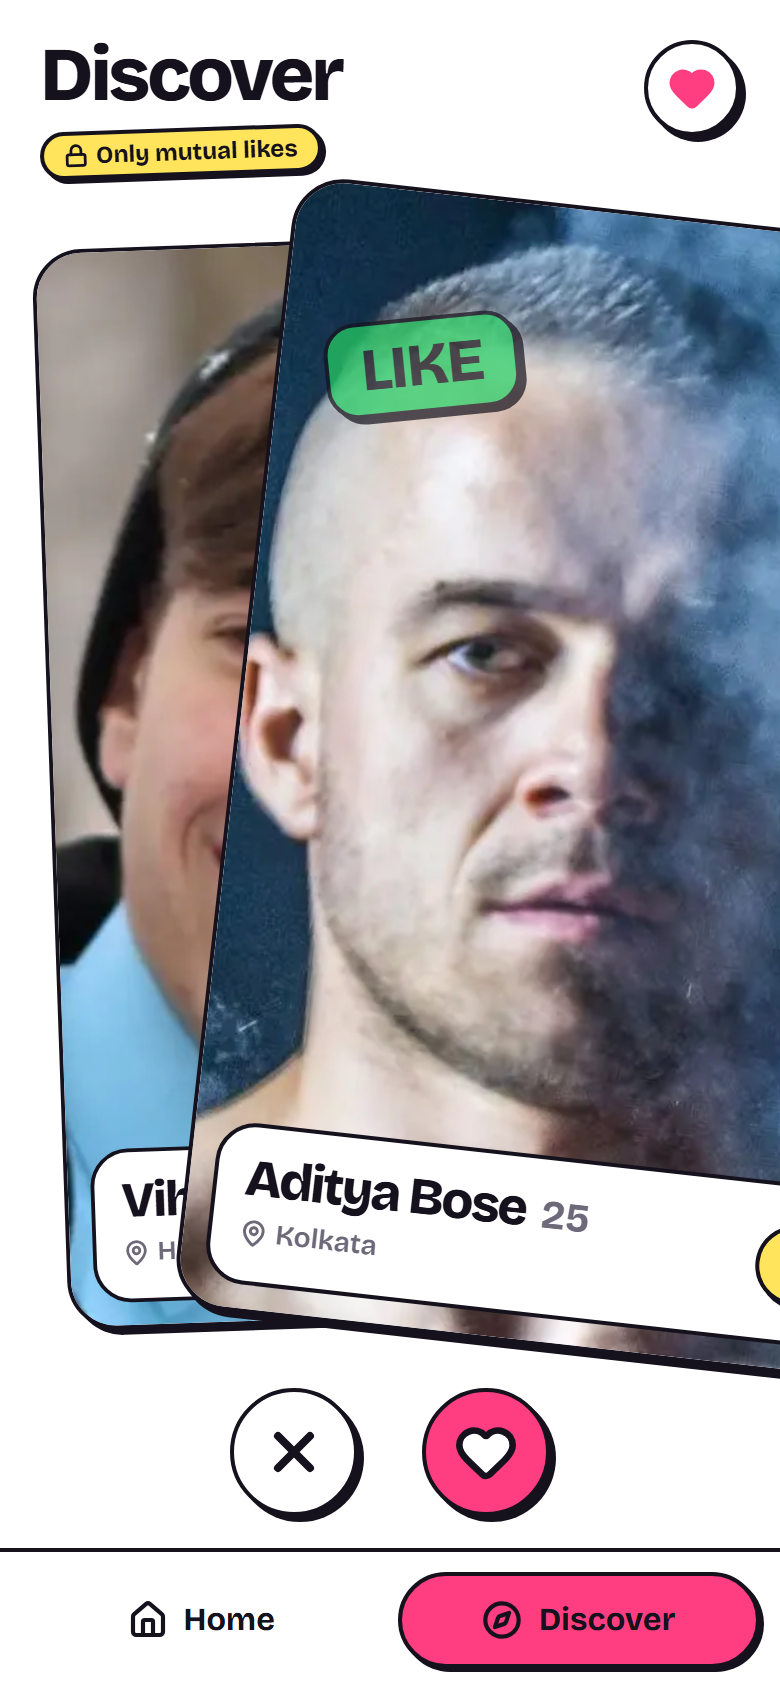
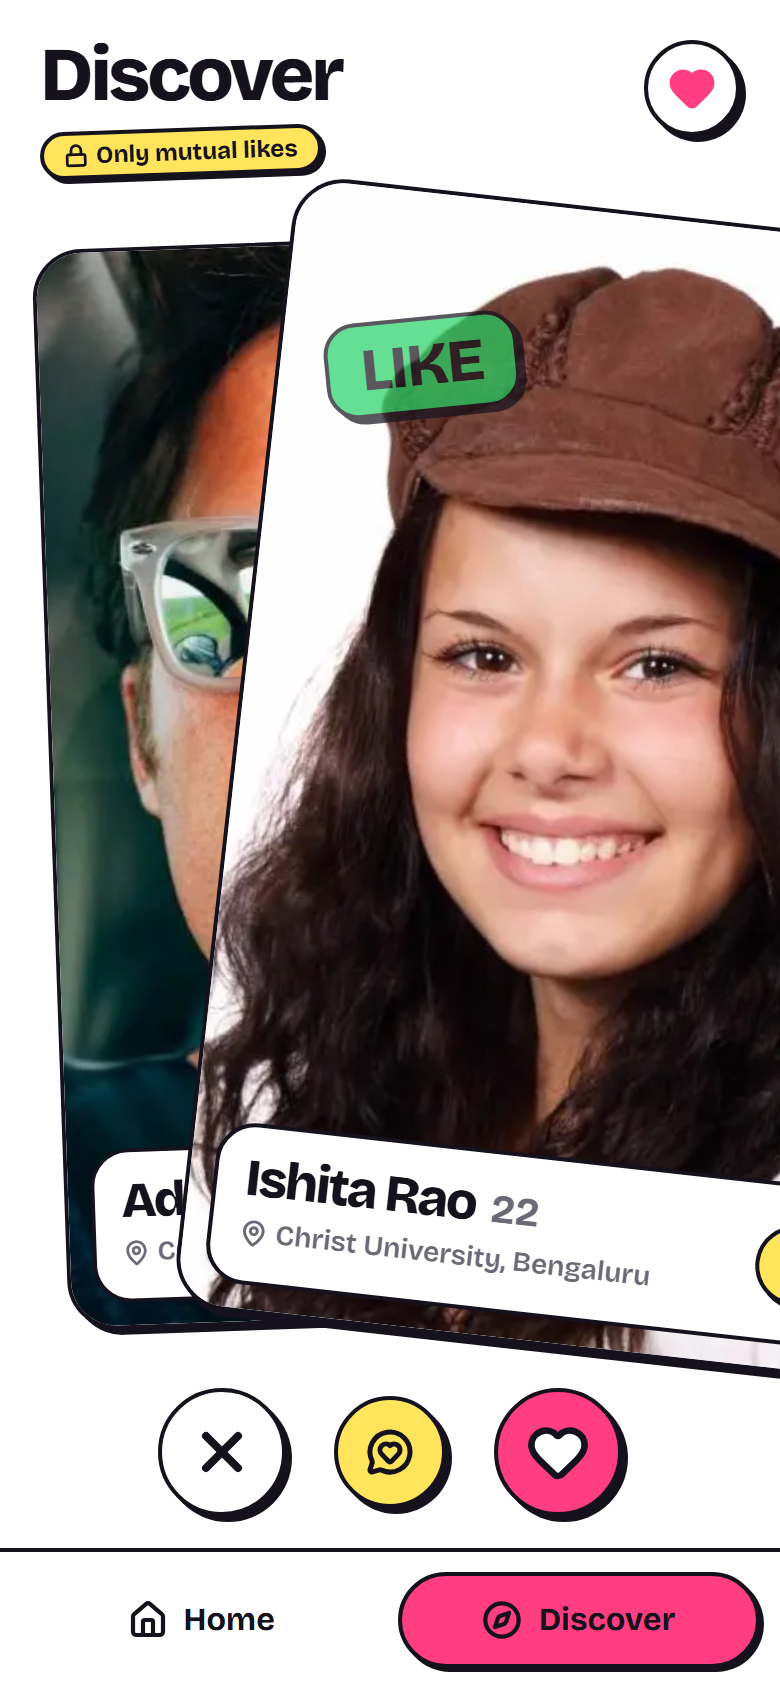
docs: document sealed notes and refresh the screenshots

diff --git a/scripts/screenshots.ts b/scripts/screenshots.ts
@@ -58,13 +58,21 @@ async function main() {
   await page.mouse.up();
   await page.waitForTimeout(700);
 
-  // 3. Like until the first mutual match.
+  // 3. Like with a sealed note until the first mutual match. The first note
+  //    sheet is captured on the way.
   for (let i = 0; i < 40; i++) {
+    await page.getByRole("button", { name: "Write a note" }).click();
+    const sheet = page.getByTestId("note-sheet");
+    await sheet.getByRole("textbox").fill("Coffee after the fest? \u2615");
+    if (i === 0) {
+      await page.waitForTimeout(400);
+      await page.screenshot({ path: `${OUT}/note-sheet.png` });
+    }
     const [response] = await Promise.all([
       page.waitForResponse(
         (r) => r.url().endsWith("/swipe") && r.request().method() === "POST",
       ),
-      page.getByRole("button", { name: "Like" }).click(),
+      sheet.getByRole("button", { name: "Like with note" }).click(),
     ]);
     if (((await response.json()) as { matched: boolean }).matched) break;
   }

diff --git a/README.md b/README.md
@@ -10,13 +10,15 @@ Swipe right to like, left to pass. A match happens **only when both people liked
   <img src="docs/screenshots/discover.png" alt="Photo first, with a slim info strip" width="180" />
   <img src="docs/screenshots/details.png" alt="More expands the bio and interests" width="180" />
   <img src="docs/screenshots/photo-only.png" alt="Tap the photo to hide the info" width="180" />
-  <img src="docs/screenshots/match.png" alt="The It's a match dialog" width="180" />
+  <img src="docs/screenshots/note-sheet.png" alt="Writing a sealed note with a like" width="180" />
+  <img src="docs/screenshots/match.png" alt="The match dialog shows their note and yours" width="180" />
   <img src="docs/screenshots/matches.png" alt="The Matches list" width="180" />
 </p>
 
 ## Features
 
 - **Photo-first cards**: each card shows the face with only a slim name, age and city strip. **Tap the photo** and all the info disappears so you see the whole picture (tap again to bring it back); **More** expands the bio and interests. An eye button does the same toggle for keyboard and screen-reader users.
+- **Sealed notes**: attach a short note (up to 140 characters) to a like. It is revealed **only if it becomes a match**: the match dialog and the Matches list show the note they sent you and the one you sent them. If it never becomes a match, the note stays unreadable forever. Seeded admirers write you notes too, so a demo has something to read.
 - **Swipe deck**: one card at a time, drag gestures on touch and mouse, **Like / Pass buttons** and **← / → keys** on desktop. The card follows your finger, tilts, and shows LIKE / NOPE stamps; release past the threshold (or flick) and it flies off, otherwise it springs back.
 - **Never repeats**: a swiped profile never appears again, even across reloads or while its swipe is still in flight.
 - **It's a match!** dialog on a mutual like (focus-trapped, `Esc` to close, confetti unless you prefer reduced motion) and a **Matches** view listing everyone you matched with.
@@ -29,16 +31,18 @@ Swipe right to like, left to pass. A match happens **only when both people liked
 
 The brief says: _never reveal who has liked the user unless it is mutual_. Each way a build could leak that, and what stops it here:
 
-| Leak                                              | What prevents it                                                                                                                                    | Enforced by                                          |
-| ------------------------------------------------- | --------------------------------------------------------------------------------------------------------------------------------------------------- | ---------------------------------------------------- |
-| A `likedYou` flag or raw DB rows in `GET /feed`   | Every response is built field by field in one serializer (`toPublicProfile`); a new column can't leak by accident                                   | `privacy.test.ts` asserts the exact key set          |
-| Deck order that puts admirers first               | The deck is ordered by `md5(viewer_id \|\| profile_id)`: stable per visitor, unrelated to likes                                                     | `privacy.test.ts` recomputes the order independently |
-| `POST /swipe` answering differently for admirers  | The reciprocal lookup runs for **every** swipe; a pass on an admirer returns byte-for-byte the same `{ "matched": false }` as a pass on anyone else | `privacy.test.ts`, `routes.test.ts`                  |
-| Probing by re-swiping                             | Swipes are final: the `(swiper, target)` primary key makes a second swipe a `409`, so an outcome can't be re-rolled                                 | `swipe.test.ts`, e2e                                 |
-| A "who liked me" endpoint, count, or badge        | None exists. The only relationship the API ever exposes is a mutual match, and the header badge counts matches only                                 | Code review + e2e                                    |
-| Filtering in the browser                          | All filtering happens in SQL on the server                                                                                                          | Architecture                                         |
-| Forged identity cookie acting as a seeded profile | The viewer cookie is validated as a UUID and refused if it names a seeded member                                                                    | `routes.test.ts`                                     |
-| One visitor seeing another's data                 | Every query is scoped to the visitor's id                                                                                                           | `privacy.test.ts`, e2e                               |
+| Leak                                              | What prevents it                                                                                                                                                                                             | Enforced by                                                   |
+| ------------------------------------------------- | ------------------------------------------------------------------------------------------------------------------------------------------------------------------------------------------------------------ | ------------------------------------------------------------- |
+| A `likedYou` flag or raw DB rows in `GET /feed`   | Every response is built field by field in one serializer (`toPublicProfile`); a new column can't leak by accident                                                                                            | `privacy.test.ts` asserts the exact key set                   |
+| Deck order that puts admirers first               | The deck is ordered by `md5(viewer_id \|\| profile_id)`: stable per visitor, unrelated to likes                                                                                                              | `privacy.test.ts` recomputes the order independently          |
+| `POST /swipe` answering differently for admirers  | The reciprocal lookup runs for **every** swipe; a pass on an admirer returns byte-for-byte the same `{ "matched": false }` as a pass on anyone else                                                          | `privacy.test.ts`, `routes.test.ts`                           |
+| Probing by re-swiping                             | Swipes are final: the `(swiper, target)` primary key makes a second swipe a `409`, so an outcome can't be re-rolled                                                                                          | `swipe.test.ts`, e2e                                          |
+| A "who liked me" endpoint, count, or badge        | None exists. The only relationship the API ever exposes is a mutual match, and the header badge counts matches only                                                                                          | Code review + e2e                                             |
+| Filtering in the browser                          | All filtering happens in SQL on the server                                                                                                                                                                   | Architecture                                                  |
+| Forged identity cookie acting as a seeded profile | The viewer cookie is validated as a UUID and refused if it names a seeded member                                                                                                                             | `routes.test.ts`                                              |
+| One visitor seeing another's data                 | Every query is scoped to the visitor's id                                                                                                                                                                    | `privacy.test.ts`, e2e                                        |
+| A sealed note leaking before a match              | Notes are read only through a match row, which exists only for a mutual like. A non-match answer is still exactly `{ "matched": false }`, with or without a note, and `/feed` never carries notes            | `notes.test.ts`, `routes.test.ts`, e2e (scans every response) |
+| Notes used to probe or smuggle data               | Only a like can carry a note (API validation **and** a database `CHECK`); notes are trimmed, stripped of control and bidi characters, capped at 140 characters (also a `CHECK`), and always rendered as text | `notes.test.ts`, e2e (hostile text)                           |
 
 ## How it works
 
@@ -71,7 +75,8 @@ flowchart LR
 
 ```
 users    id, kind ('member' | 'viewer'), name, age, photo_url, bio, location, interests[], created_at
-swipes   (swiper_id, target_id) PRIMARY KEY, action ('like' | 'pass'), created_at
+swipes   (swiper_id, target_id) PRIMARY KEY, action ('like' | 'pass'), note, created_at
+         CHECK (note IS NULL OR action = 'like'), CHECK (char_length(note) <= 140)
 matches  id, user_a, user_b  UNIQUE, CHECK (user_a < user_b), created_at
 ```
 
@@ -108,8 +113,10 @@ Profiles the visitor has not swiped on yet (`limit` 1 to 30).
 POST /swipe
 Content-Type: application/json
 
-{ "profileId": "00000000-0000-4000-8000-00000000001a", "action": "like" }
+{ "profileId": "00000000-0000-4000-8000-00000000001a", "action": "like", "note": "Coffee after the fest?" }
 ```
+
+`note` is optional, only valid with `"like"`, and at most 140 characters.
 
 Not a match (a pass, or a like nobody returned), always this exact body:
 
@@ -125,17 +132,31 @@ A mutual like:
   "match": {
     "id": "5b0c…",
     "matchedAt": "2026-11-18T10:21:04.512Z",
-    "profile": { "id": "…", "name": "Mahi Rathore", "age": 21, "…": "…" }
+    "profile": { "id": "…", "name": "Mahi Rathore", "age": 21, "…": "…" },
+    "theirNote": "Sunrise run, then brownies on me. Deal?",
+    "yourNote": "Coffee after the fest?"
   }
 }
 ```
 
-Errors: `400 VALIDATION_ERROR` (bad body), `404 PROFILE_NOT_FOUND`, `409 ALREADY_SWIPED`.
+Notes appear **only** inside a `match`, never in a non-match answer.
+
+Errors: `400 VALIDATION_ERROR` (bad body, a note on a pass, a note over 140 characters), `404 PROFILE_NOT_FOUND`, `409 ALREADY_SWIPED`.
 
 ### `GET /matches`
 
 ```json
-{ "matches": [{ "id": "5b0c…", "matchedAt": "…", "profile": { "…": "…" } }] }
+{
+  "matches": [
+    {
+      "id": "5b0c…",
+      "matchedAt": "…",
+      "profile": { "…": "…" },
+      "theirNote": "…",
+      "yourNote": "…"
+    }
+  ]
+}
 ```
 
 ### Other routes
@@ -162,8 +183,8 @@ To use a real Postgres instead, copy `.env.example` to `.env.local`, set `DATABA
 ## Tests
 
 ```bash
-npm test                  # 88 unit and API tests on in-memory Postgres
-npm run test:e2e          # ~220 Playwright tests, mobile (Pixel 7) and desktop Chrome
+npm test                  # 122 unit and API tests on in-memory Postgres
+npm run test:e2e          # ~260 Playwright tests, mobile (Pixel 7) and desktop Chrome
 npm run lint && npm run typecheck && npm run format:check
 ```
 
@@ -175,6 +196,7 @@ First time only: `npx playwright install chromium`.
   - `discover`: drag and button swipes, arrow keys, the three card states, a full run through the deck, persistence and restart.
   - `resilience`: rapid-fire clicks, offline mode, injected `500`/`409`/aborted requests, slow responses, a deck that fails to refill, cleared cookies, two tabs, back/forward, two matches arriving together, extreme profile text, blocked images, reduced motion, keyboard-only use, real touch events, and a seeded random "monkey".
   - `api-hostile`: malformed bodies, SQL-injection strings, huge payloads, hostile query strings and cookies, image-proxy SSRF attempts, security headers, and a privacy crawl across many visitors over real HTTP.
+  - `notes`: the note sheet (validation, clamping, focus trap, failed saves keep your draft), both notes revealed on a match, a one-sided note never appearing in any response or page, hostile and extra-long note text on small screens, and an axe audit of the new screens.
   - `layout`: ten screen sizes from 320×480 to 1440×900, including a landscape phone.
   - `a11y`: an axe-core WCAG 2.1 AA audit of every screen state.
 
@@ -235,6 +257,7 @@ scripts/               db:migrate, db:seed, README screenshots
 - **No rate limiting.** A production build would limit `/swipe` per user to slow down scripted probing (Vercel WAF or a token bucket in Redis).
 - **Photos are hotlinked placeholders** from [pravatar.cc](https://pravatar.cc), served through the Next.js image optimizer. Names, bios and people in the seed data are fictional; a failed image falls back to initials.
 - **CSP allows inline scripts**, because Next.js injects inline bootstrap code. Nonce-based CSP would tighten it.
+- **Notes are plain text at rest.** A production version would encrypt them (Coy hashes and encrypts contact details) and add reporting and moderation before real users could send each other free text.
 - **Swipes are final by design** (it's what stops probing), so there is no undo.
 
 ## License
